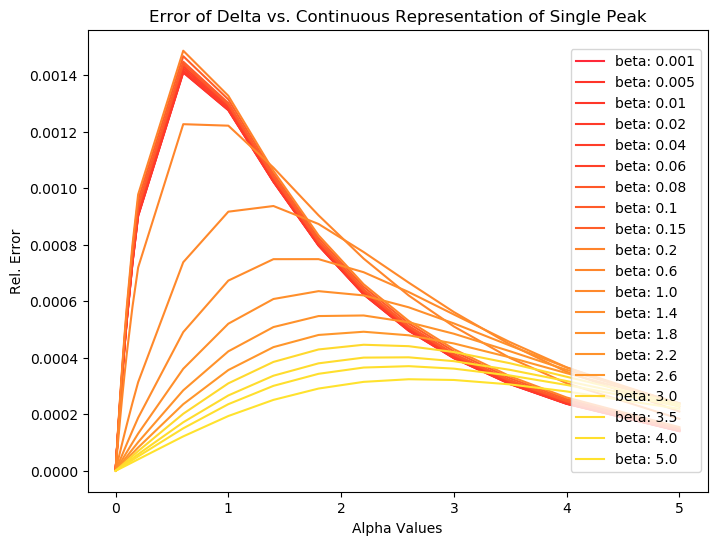
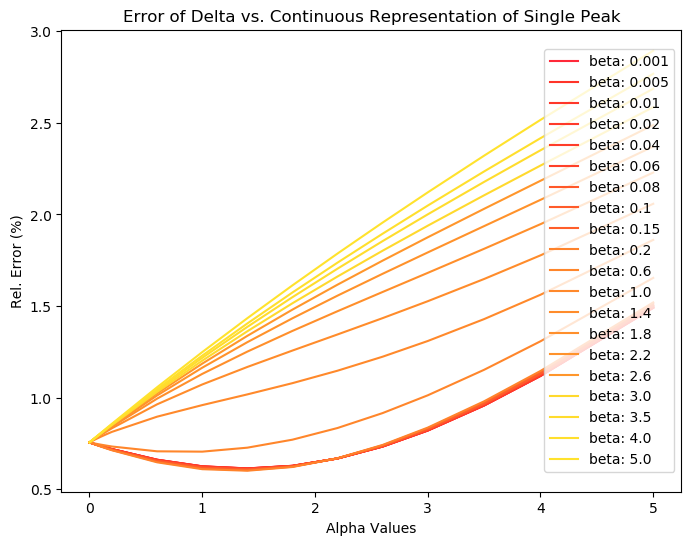
modified my alpha ad beta plotting things. need to account for fact that not all alphas go with all betas

diff --git a/deltaToContin/run_alphaBeta_tinyGrid.py b/deltaToContin/run_alphaBeta_tinyGrid.py
@@ -1,0 +1,81 @@
+import matplotlib.pyplot as plt
+from plotHelp import *
+
+n_delta = [8.259370e-3,8.345264e-3,8.431157e-3,1.628052e-2,1.644894e-2,
+           1.661735e-2]
+y_delta = [8.322095e-3,8.408637e-3,8.495179e-3,1.640384e-2,1.657352e-2,
+           1.674320e-2]
+alpha   = [0.01,0.02]
+beta    = [0.02,0.04,0.06]
+
+colors  = [ "#ff0000", "#ffa600"]
+plotErrorVsBeta(alpha,beta,y_delta,n_delta,colors,"alphaBeta_tinyGrid/plot_alphaBeta_tinyGrid.png")
+
+colors  = [ "#ff0000","#ff5300","#ffa600"]
+plotErrorVsAlpha(alpha,beta,y_delta,n_delta,colors,"alphaBeta_tinyGrid/plot_alphaBeta_tinyGrid.png")
+
+# This is the one with no delta
+#################################################################
+# leapr
+#  24 /
+#  'simple peak with no delta functions, only contin'/
+#  1 1/
+#   101 1001/
+#   0.99917 20.449 2 0 0/
+#   1 1 15.85316 3.8883 1/
+#  2 3 1/
+#   0.01 0.02 /
+#   0.02 0.04 0.06 /
+#  296/
+#   0.01 100/
+#   1 1 1 1 1 1 1 1 1 1 1 1 1 1 1 1 1 1 1 1 
+#   1 1 1 1 1 1 1 1 1 1 1 1 1 1 1 1 1 1 1 1 
+#   1 1 1 1 1 1 1 1 1 101 1 1 1 1 1 1 1 1 1 1
+#   1 1 1 1 1 1 1 1 1 1 1 1 1 1 1 1 1 1 1 1 
+#   1 1 1 1 1 1 1 1 1 1 1 1 1 1 1 1 1 1 1 1 /
+#  0.0 0.0 10.0/  for diffusion, use 120. for second number
+#   0/
+#  ' h(h2o) thermal scattering '/
+#  ' '/
+#  ' temperatures = 296 deg k. '/
+#  ' '/
+#  ' shortened version of the endf/b-vi.4 evaluation for '/
+#  ' hydrogen in water.  the energy transfer is limited to '/
+#  ' 0.625 ev.  this is only for njoy testing, not for '/
+#  ' real applications. '/
+#  /
+# stop
+
+# This is the one with delta
+#################################################################
+# leapr
+#  24 /
+#  'simple peak with delta functions'/
+#  1 1/
+#   101 1001/
+#   0.99917 20.449 2 0 0/
+#   1 1 15.85316 3.8883 1/
+#  2 3 1/
+#   0.01 0.02 /
+#   0.02 0.04 0.06 /
+#  296/
+#   0.01 100/
+#   1 1 1 1 1 1 1 1 1 1 1 1 1 1 1 1 1 1 1 1 
+#   1 1 1 1 1 1 1 1 1 1 1 1 1 1 1 1 1 1 1 1 
+#   1 1 1 1 1 1 1 1 1 1 1 1 1 1 1 1 1 1 1 1
+#   1 1 1 1 1 1 1 1 1 1 1 1 1 1 1 1 1 1 1 1 
+#   1 1 1 1 1 1 1 1 1 1 1 1 1 1 1 1 1 1 1 1 /
+#  0.0 0.0 5.0/  for diffusion, use 120. for second number
+#   1/
+#   0.50/
+#   5.0/
+#  ' h(h2o) thermal scattering '/
+#  ' '/
+#  ' temperatures = 296 deg k. '/
+#  ' '/
+#  ' shortened version of the endf/b-vi.4 evaluation for '/
+#  ' hydrogen in water.  the energy transfer is limited to '/
+#  ' 0.625 ev.  this is only for njoy testing, not for '/
+#  ' real applications. '/
+#  /
+# stop

diff --git a/deltaToContin/plotHelp.py b/deltaToContin/plotHelp.py
@@ -8,14 +8,14 @@ def plotErrorVsBeta(alpha,beta,y_delta,n_delta,colors,name):
         index = len(beta)*a
         for b in range(len(beta)):
             y,n = y_delta[index+b], n_delta[index+b]
-            #error.append(abs(y-n)/y)
-            error.append(abs(y-n))
+            error.append(100.0*abs(y-n)/y)
+            #error.append(abs(y-n))
         plt.plot(beta,error,label="alpha: "+str(alpha[a]),color=colors[counter])
         counter += 1
 
     plt.title("Error of Delta vs. Continuous Representation of Single Peak")
     plt.xlabel("Beta Values")
-    plt.ylabel("Rel. Error")
+    plt.ylabel("Rel. Error (%)")
     plt.legend(loc='center right')
 
     plt.savefig(name, bbox_inches='tight')
@@ -31,14 +31,14 @@ def plotErrorVsAlpha(alpha,beta,y_delta,n_delta,colors,name):
         for a in range(len(alpha)):
             index = b+a*len(beta)
             y,n = y_delta[index], n_delta[index]
-            #error.append(abs(y-n)/y)
-            error.append(abs(y-n))
+            error.append(100.0*abs(y-n)/y)
+            #error.append(abs(y-n))
         plt.plot(alpha,error,label="beta: "+str(beta[b]),color=colors[counter])
         counter += 1
 
     plt.title("Error of Delta vs. Continuous Representation of Single Peak")
     plt.xlabel("Alpha Values")
-    plt.ylabel("Rel. Error")
+    plt.ylabel("Rel. Error (%)")
     plt.legend(loc='center right')
 
     plt.savefig(name, bbox_inches='tight')
